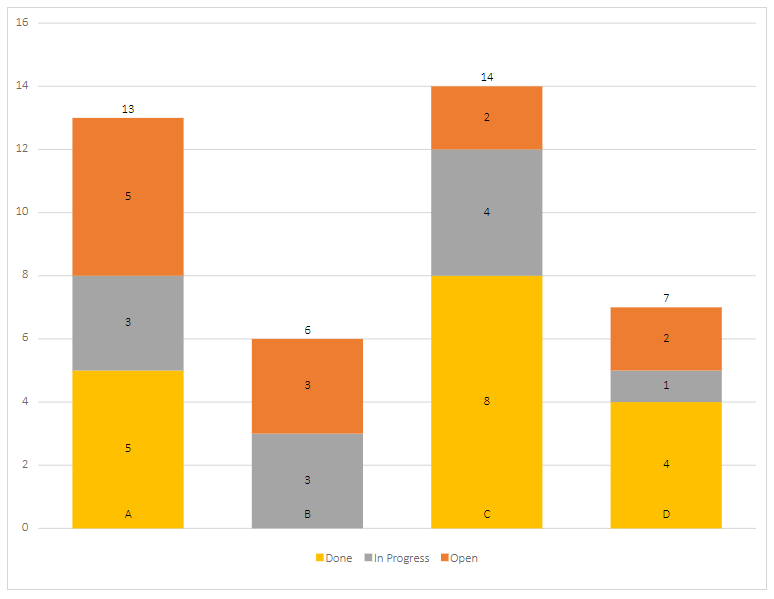
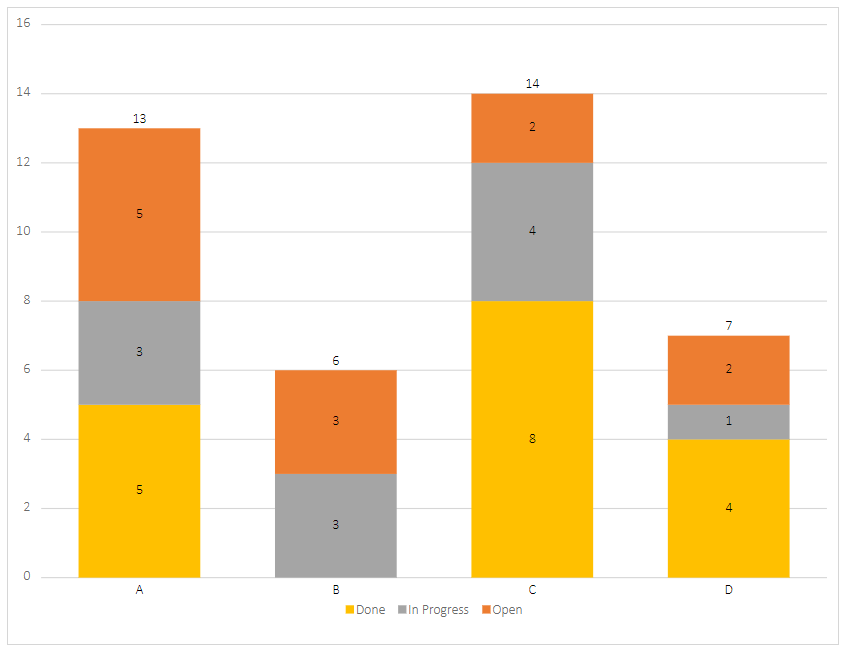
- auto freq - added - preview - updated

diff --git a/src/index.js b/src/index.js
@@ -166,7 +166,7 @@ class Stage {
 					fill: "#000",
 				},
 				x: BAR_WIDTH / 2,
-				y: PADDING_TOP + HEIGHT - 17,
+				y: PADDING_TOP + HEIGHT - 12,
 				text: `${model.stage}`
 			} ),
 		);
